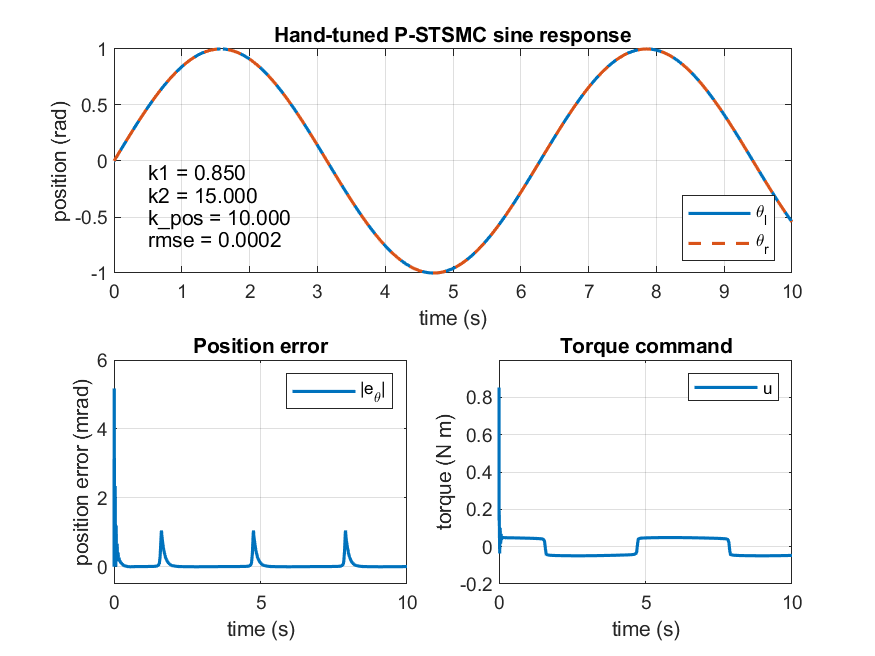
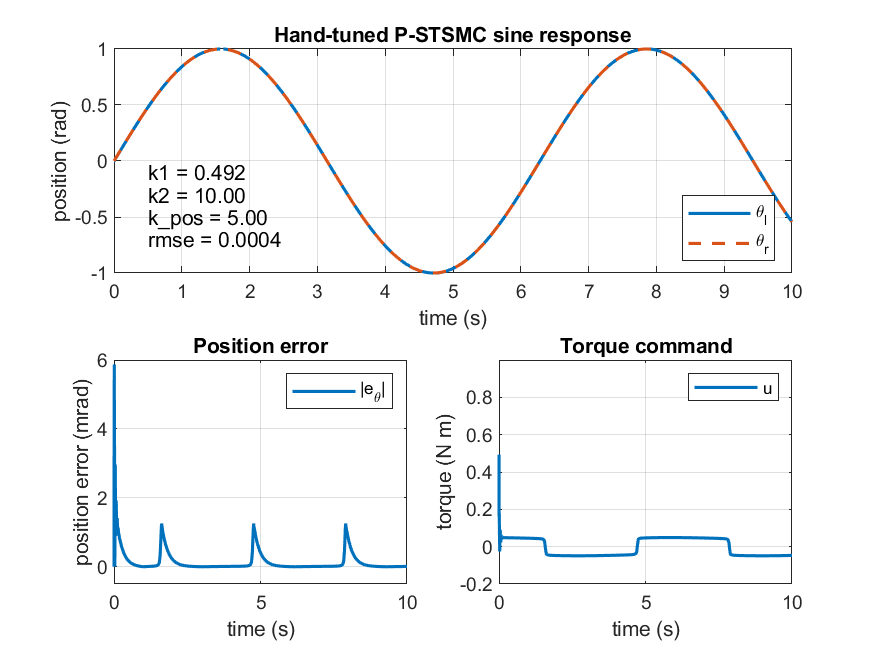
Hand-tuning done

diff --git a/modelInit_1FT7042.m b/modelInit_1FT7042.m
@@ -24,9 +24,13 @@ xf = 1;
 % k1 = 1.9865;
 % k2 = 0.9291;
 
-k1 = 0.85;
-k2 = 15;
-k_pos = 10;
+% k1 = 0.85;
+% k2 = 15;
+% k_pos = 10;
+
+k1 = 0.492;
+k2 = 10;
+k_pos = 5;
 
 % Dimitrios' values:
 % k_pos = 9;
@@ -123,8 +127,8 @@ ylim([-1 1]);
 xlabel('time (s)');
 ylabel('position (rad)');
 text(0.5,-0.1,['k1 = ' sprintf('%.3f', k1)]);
-text(0.5,-0.3,['k2 = ' sprintf('%.3f', k2)]);
-text(0.5,-0.5,['k_pos = ' sprintf('%.3f', k_pos)]);
+text(0.5,-0.3,['k2 = ' sprintf('%.2f', k2)]);
+text(0.5,-0.5,['k_pos = ' sprintf('%.2f', k_pos)]);
 text(0.5,-0.7,['rmse = ' sprintf('%.4f', rmse_theta)]);
 title('Hand-tuned P-STSMC sine response');
 
